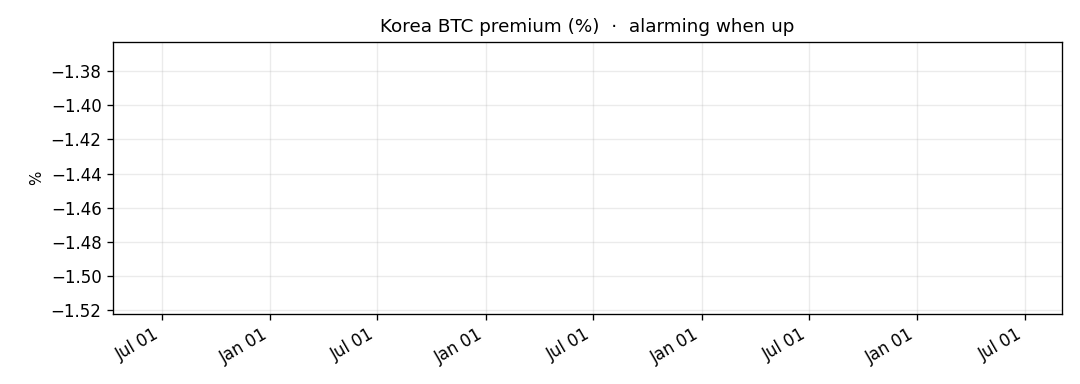
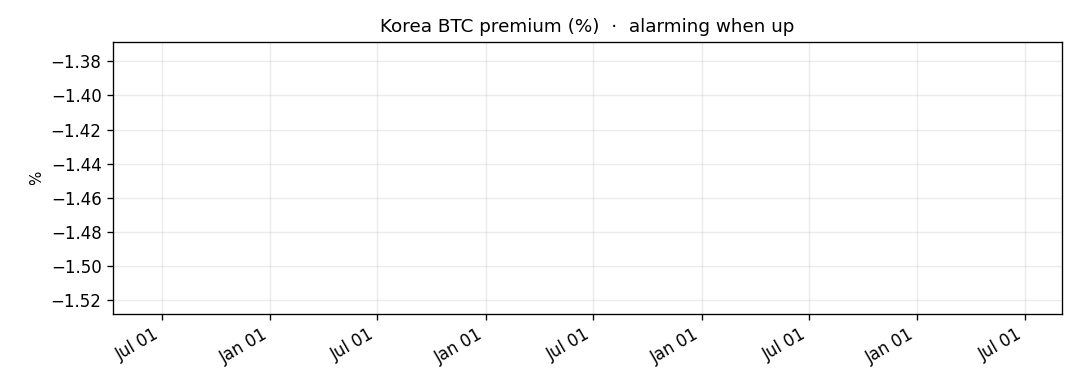
Switch grid frequency to Statnett (keyless)
Statnett's real-time frequency API needs no key or login, unlike Fingrid. It
reads the same Nordic 50 Hz synchronous grid, so the grid line now runs out of
the box; drop FINGRID_API_KEY from the workflow.

diff --git a/fetchers/grid_frequency.py b/fetchers/grid_frequency.py
@@ -1,21 +1,21 @@
-"""Fingrid — infrastructure tension line (grid frequency).
+"""Statnett — infrastructure tension line (grid frequency).
 
 Guarded equilibrium: grid operators defend 50 Hz second by second — one of the
 most fiercely guarded balances humans maintain. The leaking hand: any deviation
 means supply/demand was overwhelmed — a blackout precursor, a fuel shortage, a
 system under shock.
 
-Reading: the day's maximum absolute deviation from 50 Hz, in millihertz. A
-larger deviation is the alarming direction. (Max deviation captures "stress"
-far better than a daily average, which washes the spikes out.)
+Reading: the maximum absolute deviation from 50 Hz in the latest ~60-second
+window, in millihertz. A larger deviation is the alarming direction. (Max
+deviation captures "stress" far better than an average, which washes the spikes
+out.)
 
-Source: Fingrid Open Data (Finland, Nordic synchronous grid), dataset 177
-(real-time frequency). Needs a free api key in env FINGRID_API_KEY (sent as the
-x-api-key header).
+Source: Statnett (Norway TSO) real-time frequency REST API. Statnett sits on the
+Nordic synchronous grid — the same 50 Hz balance Finland's Fingrid measures — but
+its endpoint is fully public: no key, no login, no registration. That keeps this
+line running out of the box. (Fingrid dataset 177 is an equivalent alternative
+if a key is ever preferred.)
 """
-import os
-from datetime import datetime, timedelta, timezone
-
 import requests
 
 LINE = "grid_frequency"
@@ -23,51 +23,31 @@ LABEL = "Grid freq. max |dev| from 50Hz (mHz)"
 UNIT = "mHz"
 ANOMALY_DIRECTION = "up"  # a larger deviation is the alarming move
 
-_DATASET = 177
-_URL = f"https://data.fingrid.fi/api/datasets/{_DATASET}/data"
+_URL = "https://driftsdata.statnett.no/restapi/Frequency/BySecond"
 
 
 def fetch_daily():
     """Return {"raw_value": float | None, "source_note": str}."""
-    key = os.environ.get("FINGRID_API_KEY")
-    if not key:
-        return {"raw_value": None, "source_note": "missing FINGRID_API_KEY"}
-    end = datetime.now(timezone.utc)
-    start = end - timedelta(hours=24)
-    fmt = "%Y-%m-%dT%H:%M:%SZ"
     try:
-        r = requests.get(
-            _URL,
-            timeout=20,
-            headers={"x-api-key": key, "Accept": "application/json"},
-            params={
-                "startTime": start.strftime(fmt),
-                "endTime": end.strftime(fmt),
-                "pageSize": 20000,
-            },
-        )
+        r = requests.get(_URL, timeout=15, headers={"Accept": "application/json"})
     except requests.RequestException as e:
-        return {"raw_value": None, "source_note": f"Fingrid request failed: {type(e).__name__}"}
+        return {"raw_value": None, "source_note": f"Statnett request failed: {type(e).__name__}"}
     if r.status_code != 200:
-        return {"raw_value": None, "source_note": f"Fingrid HTTP {r.status_code}"}
+        return {"raw_value": None, "source_note": f"Statnett HTTP {r.status_code}"}
     try:
-        body = r.json()
+        measurements = r.json().get("Measurements") or []
     except ValueError:
-        return {"raw_value": None, "source_note": "Fingrid returned a non-JSON body"}
+        return {"raw_value": None, "source_note": "Statnett returned a non-JSON body"}
 
-    rows = body.get("data", []) if isinstance(body, dict) else body
     deviations = []
-    for row in rows or []:
-        value = row.get("value") if isinstance(row, dict) else None
-        if value is None:
-            continue
+    for value in measurements:
         try:
             deviations.append(abs(float(value) - 50.0) * 1000.0)  # Hz -> mHz
         except (TypeError, ValueError):
             continue
     if not deviations:
-        return {"raw_value": None, "source_note": "Fingrid dataset 177 returned no points"}
+        return {"raw_value": None, "source_note": "Statnett frequency window was empty"}
     return {
         "raw_value": round(max(deviations), 2),
-        "source_note": f"Fingrid dataset 177 max |dev| over {len(deviations)} points",
+        "source_note": f"Statnett Nordic grid max |dev|, ~60s snapshot, {len(deviations)} points",
     }

diff --git a/README.md b/README.md
@@ -9,7 +9,7 @@ tremor watches a few **tension indicators**: guarded equilibria that something p
 - **Flights airborne** — airspace (OpenSky)
 - **US high-yield credit spread** — financial system (FRED)
 - **Korea BTC premium** — capital controls (Upbit + Coinbase)
-- **Grid frequency** — infrastructure (Fingrid)
+- **Grid frequency** — infrastructure (Statnett, Nordic grid)
 
 Each line is normalized on its own; they are never combined into a single doom score. What matters is **resonance** — how many lines are trembling at once. Several independent instruments screaming together is what "actually more disordered" looks like; one moving alone is just a local event.
 
@@ -24,4 +24,4 @@ pip install -r requirements.txt
 python collect.py && python render.py
 ```
 
-Flights and the Korea premium need no keys. Add free `FRED_API_KEY` and `FINGRID_API_KEY` as repo Secrets to light up the other two lines.
+Three lines need no keys (flights, Korea premium, grid frequency). Add a free `FRED_API_KEY` as a repo Secret to light up the credit-spread line too.
